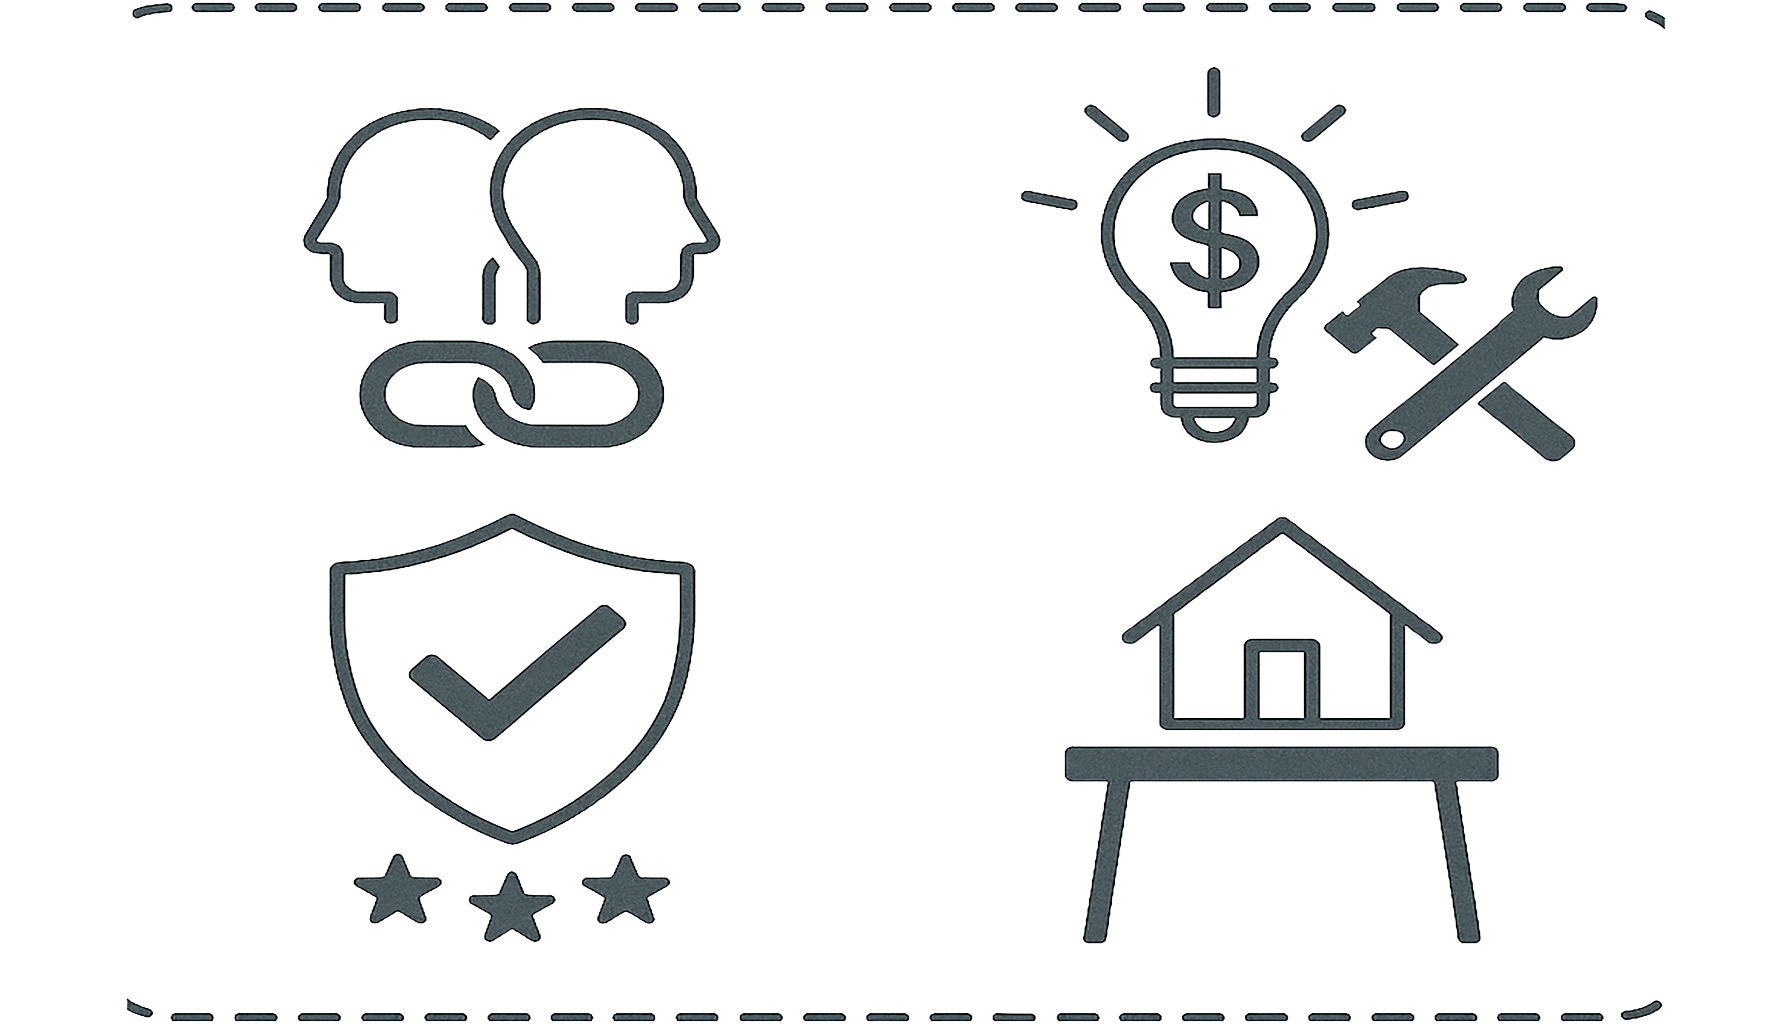
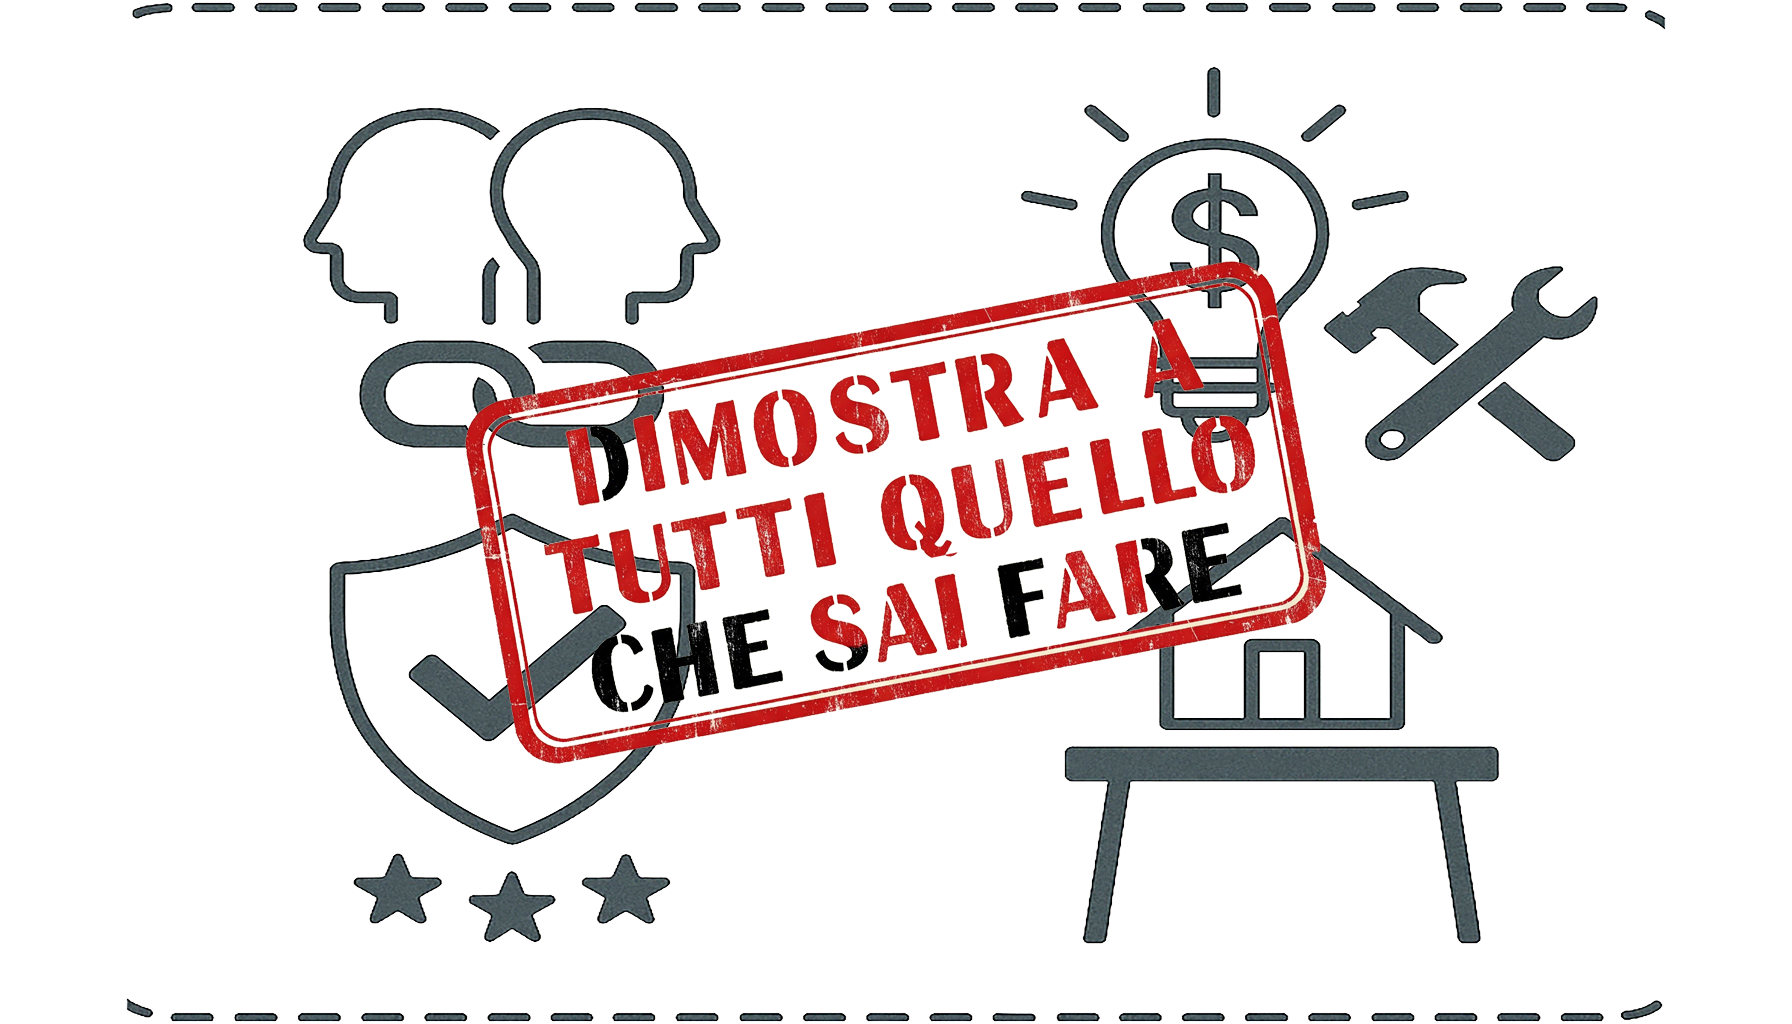
modifica pagina vision

Changed region(s): [[0.25, 0.25, 0.75, 0.75]]

diff --git a/app/vision/page.tsx b/app/vision/page.tsx
@@ -1,51 +1,129 @@
 "use client";
 
-import Image from "next/image";
-import Link from "next/link";
-import { FaInstagramSquare } from "react-icons/fa";
-import { FaLinkedin } from "react-icons/fa";
+import React from 'react';
+import Image from 'next/image';
+import Link from 'next/link';
+import { FaWrench, FaPhone, FaEnvelope, FaDraftingCompass, FaSolarPanel, FaPlug, FaDoorOpen, FaInstagramSquare, FaLinkedin } from "react-icons/fa";
+import { cn } from '@/lib/utils';
+import { Card, CardContent } from "@/components/ui/card"; // Assumo tu abbia questi componenti
+import { motion } from 'framer-motion'; // Assicurati di aver installato framer-motion
 
-export default function VisionPage() {
-  return (
-    <div className="min-h-screen bg-black text-white">
-      {/* Navbar */}
-           <nav className="bg-black text-white py-1 px-6 flex justify-between items-center shadow-lg">
-             <div className="flex items-center gap-1">
-               <a href="/">
-                 <Image src="/logo faccio tutto 3.png" alt="Logo Faccio Tutto" width={200} height={200} className="rounded" />
-               </a>
-               <h1 className="text-xl font-normal flex items-center gap-2">
-                 faccio-tutto.it 
-                 <a href="https://www.instagram.com/infofacciotutto/" target="_blank" rel="noopener noreferrer" aria-label="Instagram Link">
-                   <FaInstagramSquare />
-                 </a>
-                 <a href="https://www.linkedin.com/company/faccio-tutto/?viewAsMember=true" target="_blank" rel="noopener noreferrer" aria-label="LinkedIn Link">
-                   <FaLinkedin />
-                 </a>
-                 </h1>
-             </div>
-             <ul className="flex gap-6">
-               {[
-                 { name: "Home", href: "/" },
-                 { name: "Mission", href: "/mission" },
-                 { name: "Vision", href: "/vision" },
-                 { name: "Chi siamo", href: "/chisiamo" },
-                 { name: "Affiliazione", href: "/affiliazione" },
-                 { name: "Contatti", href: "/contatti" },
-               ].map((link) => (
-                 <li key={link.href}>
-                   <a href={link.href} className="hover:underline">{link.name}</a>
-                 </li>
-               ))}
-             </ul>
-           </nav>
+type CardContentProps = React.HTMLAttributes<HTMLDivElement>;
 
-      {/* Mission Section */}
-      <div className="p-6 flex flex-col items-center">
-      <h1 className="text-3xl font-bold mb-6 text-center">La Nostra Vision</h1>
-        <div className="max-w-5xl text-justify mb-8 bg-black bg-opacity-70 p-6 rounded-lg">
-        <p className="mission-text">
-        Crediamo in un mondo in cui chiunque sappia fare qualcosa possa offrire il proprio talento
+const CustomCardContent: React.FC<CardContentProps> = ({ children, className, ...props }) => (
+    <div className={`card-content ${className}`} {...props}>
+        {children}
+    </div>
+);
+
+type CardProps = React.HTMLAttributes<HTMLDivElement>;
+
+const CustomCard: React.FC<CardProps> = ({ children, className, ...props }) => {
+    return (
+        <div className={`rounded-lg shadow-md ${className}`} {...props}>
+            {children}
+        </div>
+    );
+};
+
+type ButtonProps = {
+    children: React.ReactNode;
+    className?: string;
+    variant?: "ghost" | "default" | string;
+    size?: "icon" | string;
+    [key: string]: any;
+};
+
+const Button: React.FC<ButtonProps> = ({ children, className, variant, size, ...props }) => {
+    let baseClasses = "inline-flex items-center justify-start rounded-md text-sm font-bold transition-colors";
+
+    if (variant === "ghost") {
+        baseClasses += " hover:bg-gray-100";
+    } else if (variant === "default") {
+        baseClasses += " bg-yellow-500 text-black hover:bg-yellow-600";
+    } else {
+        baseClasses += " bg-white text-gray-900 hover:bg-gray-100";
+    }
+
+    if (size === "icon") {
+        baseClasses += " h-9 w-9 p-0";
+    } else {
+        baseClasses += " px-4 py-2"; // Ridotto il padding per contenere il testo
+    }
+
+    baseClasses = cn(baseClasses, className);
+
+    return (
+        <button className={baseClasses} {...props}>
+            {children}
+        </button>
+    );
+};
+
+const MainContent = () => {
+
+        const [hoveredImages, setHoveredImages] = React.useState<{ [key: number]: string | null }>({});
+        const isImageHovered = Object.values(hoveredImages).some(image => image);
+    
+        return (
+            <div className="container mx-auto px-4 flex flex-col md:flex-row items-start relative z-10 py-8">
+                {/* Servizi - NUOVI PULSANTI */}
+                <div className="w-full md:w-4/4 space-y-4 mb-8 md:mb-0 bg-gray-200 p-4 rounded-lg shadow-lg">
+                    <div className="grid grid-cols-1 gap-4 bg-white bg-opacity-80 p-4 rounded-lg">
+                        {[{
+                            id: "progettazione",
+                            icon: <FaDraftingCompass className="text-3xl mb-0 text-purple-500" />,
+                            title: "Progettazione architettonica",
+                            link: "/progettazione"
+                        }, {
+                            id: "fotovoltaico",
+                            icon: <FaSolarPanel className="text-3xl mb-0 text-yellow-500" />,
+                            title: "Impianti fotovoltaici",
+                            link: "/fotovoltaico"
+                        }, {
+                            id: "infissi",
+                            icon: <FaDoorOpen className="text-3xl mb-0 text-orange-900" />,
+                            title: "Vendita e installazione infissi",
+                            link: "/infissi"
+                        }, {
+                            id: "riparazione-elettrodomestici",
+                            icon: <FaPlug className="text-3xl mb-0 text-orange-500" />,
+                            title: "Riparazione elettrodomestici",
+                            link: "/riparazione-elettrodomestici"
+                        }, {
+                            id: "riparazioni-veloci",
+                            icon: <FaWrench className="text-3xl mb-0 text-blue-500" />,
+                            title: "Riparazioni veloci",
+                            link: "/riparazioni-veloci"
+                        }, {
+                            id: "contatti",
+                            icon: <FaPhone className="text-3xl mb-0 text-green-500" />,
+                            title: "Prenota subito",
+                            link: "/prenota"
+                        }].map(service => (
+                            <Link href={service.link} key={service.id} className="block transform transition duration-300 hover:scale-105">
+                                <CustomCard className="border-gray-200 bg-transparent">
+                                    <CustomCardContent className="p-4 text-center flex flex-col justify-center items-center">
+                                        <div className="rounded-full p-3 shadow-md bg-white">
+                                            {service.icon}
+                                        </div>
+                                        <h3 className={`text-sm font-semibold mt-2 text-grey-800`}>{service.title}</h3>
+                                    </CustomCardContent>
+                                </CustomCard>
+                            </Link>
+                        ))}
+                    </div>
+                </div>
+    
+                {/* Center Column (Hero Section e testo) */}
+                <div className="w-full md:w-2/2 flex flex-col items-center mt-8 md:mt-0">
+                    <section className="relative text-center w-full">
+                        <div className="bg-black bg-opacity-50 p-4 md:p- flex flex-col items-center">
+                            <h1 className="text-3xl text-white font-bold mb-6 text-center">La Nostra Vision</h1>
+                            <section className="bg-black bg-opacity-80 rounded-lg shadow-lg p-0 mt-0">
+                                <div className="max-w-3xl text-gray-500 text-justify mb-8 bg-black bg-opacity-70 p-0 rounded-lg">
+                                    <p className="text-lg text-white">
+                                        <br/>Crediamo in un mondo in cui chiunque sappia fare qualcosa possa offrire il proprio talento
           senza bisogno di essere un professionista certificato. Offriamo un'opportunità a chiunque
           voglia mettere a disposizione le proprie competenze, creando una rete di aiuto reciproco
           e occasioni di lavoro accessibili a tutti. L'idea centrale è quella di superare la barriera 
@@ -57,31 +135,123 @@ export default function VisionPage() {
           indipendentemente dal loro background professionale.
           Su questa piattaforma si vuole creare un ambiente stimolante per mettersi alla prova, garantire la qualità 
           dei servizi offerti, ottenere dei feedback e costruire un portfolio di competenze. 
-</p>
-        </div>
-        <div className="grid md:grid-cols-3 gap-6 w-full max-w-4xl">
-          <div className="text-center">
-            <Image src="/images/operaio-tenda.jpg" width={300} height={200} alt="operaio-tenda" className="rounded-lg" />
-            <h2 className="text-xl font-semibold mt-4">Talento alla portata di tutti</h2>
-          </div>
-          <div className="text-center">
-            <Image src="/images/operaio-lampadario.jpg" width={300} height={200} alt="operaio-lampadario" className="rounded-lg" />
-            <h2 className="text-xl font-semibold mt-4">Lavori semplici, senza complicazioni</h2>
-          </div>
-          <div className="text-center">
-            <Image src="/images/operaio-chiodi.jpg" width={300} height={200} alt="operaio-chiodi" className="rounded-lg" />
-            <h2 className="text-xl font-semibold mt-4">Un aiuto concreto per la casa</h2>
-          </div>
-        </div>
-        <Link href="/">
-          <button className="bg-blue-500 hover:bg-blue-700 text-white font-bold py-2 px-4 rounded-lg mt-10">
-            Torna alla Home
-          </button>
-        </Link>
-      </div>
-      <footer className="text-center mt-6 p-4 bg-black text-white">
-        <p>&copy; {new Date().getFullYear()} faccio-tutto.it - Tutti i diritti riservati.</p>
-      </footer>
-    </div>
-  );
-}
+                                    </p>
+                                </div>
+                            </section>
+                        </div>
+                    </section>
+                </div>
+
+                {/* Colonna di destra (Post recenti) */}
+                <div className="w-full md:w-4/4 bg-red-500 p-4 rounded-xl shadow-lg space-y-2 mt-8 md:mt-0">
+                    <h3 className="text-lg font-bold text-white text-center"></h3>
+                    <div className="grid grid-cols-1 gap-4">
+                    {[
+  { src: "/images/operaio-tenda.jpg", caption: "Talento alla portata di tutti" },
+  { src: "/images/operaio-lampadario.jpg", caption: "Lavori semplici, senza complicazioni" },
+  { src: "/images/operaio-chiodi.jpg", caption: "Un aiuto concreto per la casa" },
+].map((item, index) => (
+  <div
+    key={index}
+    className="transform transition duration-300 hover:scale-105 cursor-pointer group relative overflow-hidden"
+    onMouseEnter={() => setHoveredImages(prev => ({ ...prev, [index]: item.src }))}
+    onMouseLeave={() => setHoveredImages(prev => ({ ...prev, [index]: null }))}
+  >
+    <Image
+      src={item.src}
+      alt={`Volantino ${index + 1}`}
+      className="rounded-md w-full object-contain"
+      width={500}
+      height={500}
+      layout="responsive"
+    />
+    <p className="text-white text-sm mt-2 text-center">{item.caption}</p>
+  </div>
+))}
+                    </div>
+                </div>
+    
+                {isImageHovered && (
+                    <motion.div
+                        initial={{ opacity: 0, scale: 0.8 }}
+                        animate={{ opacity: 1, scale: 1 }}
+                        exit={{ opacity: 0, scale: 0.8 }}
+                        className="fixed top-1/2 left-1/2 transform -translate-x-1/2 -translate-y-1/2 bg-white p-4 shadow-2xl rounded-lg z-50"
+                    >
+                        <Image
+                            src={Object.values(hoveredImages).find(image => image) || ""}
+                            alt="Volantino Ingrandito"
+                            width={600}
+                            height={600}
+                            className="rounded-lg object-contain"
+                        />
+                    </motion.div>
+                )}
+            </div>
+        );
+    };
+    
+    const HomePage = () => {
+        const navPaddingX = 'px-6'; // Margine orizzontale del menu
+    
+        return (
+            <div className="min-h-screen flex flex-col">
+                <nav className={`bg-black text-white py-0 ${navPaddingX} flex items-center justify-between shadow-lg`}>
+                    {/* Logo e titolo */}
+                    <div className="flex items-center gap-1">
+                        <Link href="/">
+                            <Image src="/logo faccio tutto 3.png" alt="Logo Faccio Tutto" width={200} height={200} className="rounded" />
+                        </Link>
+                        <h1 className="text-xl font-normal flex items-center gap-2">
+                            faccio-tutto.it
+                            <a href="https://www.instagram.com/infofacciotutto/" target="_blank" rel="noopener noreferrer" aria-label="Instagram Link">
+                                <FaInstagramSquare />
+                            </a>
+                            <a href="https://www.linkedin.com/company/faccio-tutto/?viewAsMember=true" target="_blank" rel="noopener noreferrer" aria-label="LinkedIn Link">
+                                <FaLinkedin />
+                            </a>
+                        </h1>
+                    </div>
+    
+                    {/* Menù */}
+                    <ul className="flex gap-8">
+                        {[
+                            { name: "Home", href: "/" },
+                            { name: "Mission", href: "/mission" },
+                            { name: "Vision", href: "/vision" },
+                            { name: "Chi siamo", href: "/chisiamo" },
+                            { name: "Affiliazione", href: "/affiliazione" },
+                            { name: "Contatti", href: "/contatti" },
+                        ].map((link) => (
+                            <li key={link.href} className="mr-0 ml-0">
+                                <Link href={link.href} className="text-white font-normal hover:underline">{link.name}</Link>
+                            </li>
+                        ))}
+                    </ul>
+                </nav>
+    
+                {/* Hero Image */}
+                <div className="w-full relative h-[300px] md:h-[660px]">
+                    <Image
+                        src="/images/sfondo vision.png"
+                        alt="sfondo chi siamo"
+                        fill
+                        style={{ objectFit: "contain" }}
+                        priority
+                    />
+                </div>
+    
+                {/* Contenuto principale con flex-grow */}
+                <div className="flex-grow z-0 py-20" style={{ paddingTop: '20px' }}>
+                    <MainContent />
+                </div>
+    
+                {/* Footer fisso in fondo */}
+                <footer className="text-center py-3 bg-gray-800">
+                    <p>&copy; 2025 faccio-tutto.it - Tutti i diritti riservati.</p>
+                </footer>
+            </div>
+        );
+    };
+    
+    export default HomePage;

diff --git a/app/prova/page.tsx b/app/prova/page.tsx
@@ -5,7 +5,6 @@ import Image from 'next/image';
 import Link from 'next/link';
 import { FaWrench, FaPhone, FaEnvelope, FaDraftingCompass, FaSolarPanel, FaPlug, FaDoorOpen, FaInstagramSquare, FaLinkedin } from "react-icons/fa";
 import { cn } from '@/lib/utils';
-import './prova.css';
 import { Card, CardContent } from "@/components/ui/card"; // Assumo tu abbia questi componenti
 import { motion } from 'framer-motion'; // Assicurati di aver installato framer-motion
 
@@ -120,19 +119,22 @@ const MainContent = () => {
                 <div className="w-full md:w-2/2 flex flex-col items-center mt-8 md:mt-0">
                     <section className="relative text-center w-full">
                         <div className="bg-black bg-opacity-50 p-4 md:p- flex flex-col items-center">
-                            <h1 className="text-3xl text-white font-bold mb-6 text-center">La Nostra Mission</h1>
+                            <h1 className="text-3xl text-white font-bold mb-6 text-center">La Nostra Vision</h1>
                             <section className="bg-black bg-opacity-80 rounded-lg shadow-lg p-0 mt-0">
                                 <div className="max-w-3xl text-gray-500 text-justify mb-8 bg-black bg-opacity-70 p-0 rounded-lg">
                                     <p className="text-lg text-white">
-                                        <br/>Crediamo che ogni persona abbia competenze utili che possono essere messe a disposizione della comunità,
-                                             senza necessariamente essere un professionista certificato o una ditta, vorremmo creare un ambiente inclusivo dove ogni abilità sia valorizzata, indipendentemente dall'età, genere, background culturale o livello di istruzione.<br/>
-                                             I nostri obiettivi principali sono quelli di:<br/>
-                                       <br/>1. Dare opportunità di guadagno a chiunque abbia abilità pratiche.<br/>
-                                        <br/>2. Offrire un'alternativa economica e accessibile per piccoli lavori.<br/>
-                                        <br/>3. Creare una rete di fiducia basata su recensioni e competenze reali.<br/>
-                                        <br/>Con la nostra piattaforma, vogliamo democratizzare il mondo del lavoro occasionale, rendendolo più flessibile, accessibile e vantaggioso per tutti.
-                                        Garantiamo la massima trasparenza nelle recensioni e nella comunicazione tra utenti, per costruire una comunità affidabile e onesta.
-                                        Ci impegniamo a migliorare costantemente la nostra piattaforma, integrando nuove tecnologie e funzionalità per soddisfare le esigenze in continua evoluzione dei nostri utenti.
+                                        <br/>Crediamo in un mondo in cui chiunque sappia fare qualcosa possa offrire il proprio talento
+          senza bisogno di essere un professionista certificato. Offriamo un'opportunità a chiunque
+          voglia mettere a disposizione le proprie competenze, creando una rete di aiuto reciproco
+          e occasioni di lavoro accessibili a tutti. L'idea centrale è quella di superare la barriera 
+          delle certificazioni formali, valorizzando le capacità pratiche di ogni individuo perchè a volte 
+          il saper fare ha più valore del titolo di studio.
+          Vogliamo creare una comunità collaborativa in cui le persone si supportano a vicenda attraverso lo
+          scambio di competenze.
+          L'obiettivo è quello di generare delle occasioni di lavoro che siano inclusive e aperte a tutti, 
+          indipendentemente dal loro background professionale.
+          Su questa piattaforma si vuole creare un ambiente stimolante per mettersi alla prova, garantire la qualità 
+          dei servizi offerti, ottenere dei feedback e costruire un portfolio di competenze. 
                                     </p>
                                 </div>
                             </section>
@@ -145,9 +147,9 @@ const MainContent = () => {
                     <h3 className="text-lg font-bold text-white text-center"></h3>
                     <div className="grid grid-cols-1 gap-4">
                     {[
-  { src: "/images/handyman.jpg", caption: "Piccoli lavori domestici" },
-  { src: "/images/riparazioni-elettrodomestici.jpg", caption: "Riparazioni di elettrodomestici" },
-  { src: "/images/home-repair.jpg", caption: "Semplici interventi" },
+  { src: "/images/operaio-tenda.jpg", caption: "Talento alla portata di tutti" },
+  { src: "/images/operaio-lampadario.jpg", caption: "Lavori semplici, senza complicazioni" },
+  { src: "/images/operaio-chiodi.jpg", caption: "Un aiuto concreto per la casa" },
 ].map((item, index) => (
   <div
     key={index}
@@ -231,7 +233,7 @@ const MainContent = () => {
                 {/* Hero Image */}
                 <div className="w-full relative h-[300px] md:h-[660px]">
                     <Image
-                        src="/images/sfondo mission.png"
+                        src="/images/sfondo vision.png"
                         alt="sfondo chi siamo"
                         fill
                         style={{ objectFit: "contain" }}
